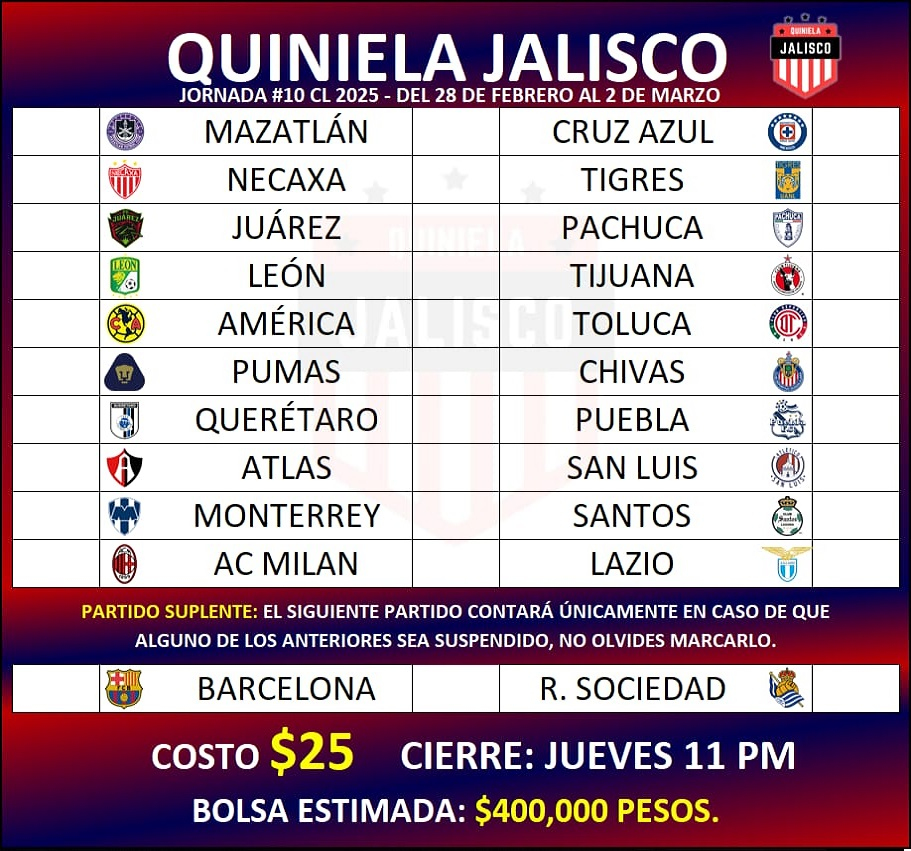
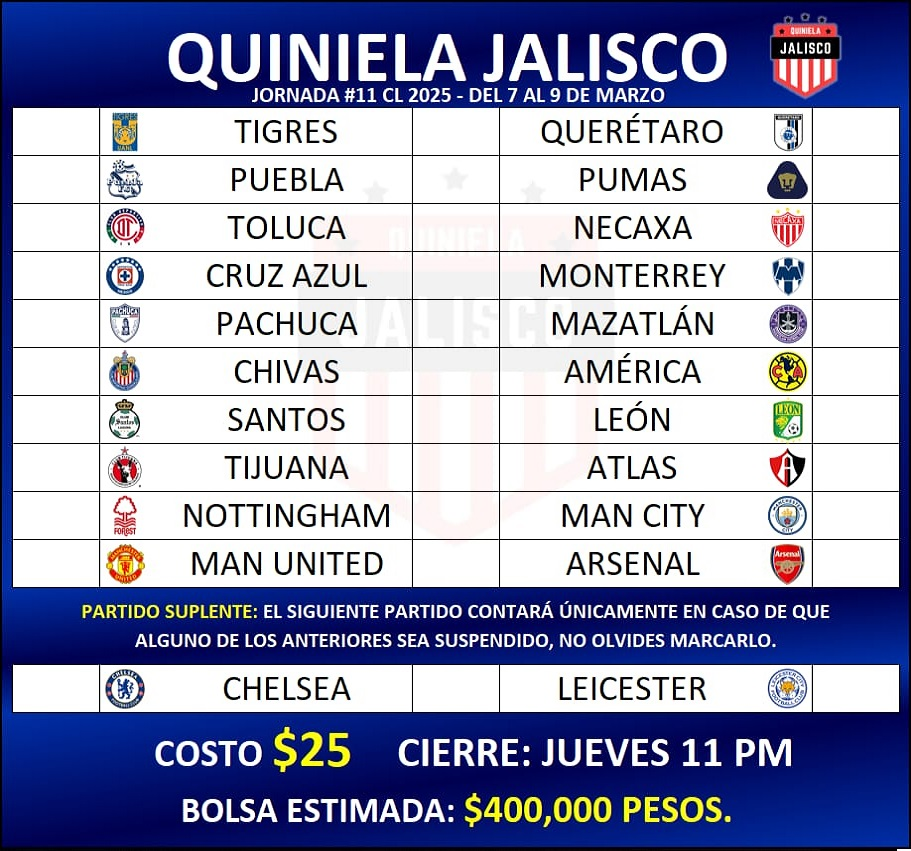
Jornada 11 C25

diff --git a/11/styles11.css b/11/styles11.css
@@ -95,8 +95,8 @@ body{
     margin-top: 8.5%;
     border-top: solid 1px black;
     border-radius: 0 0 14px 14px;
-    background: -webkit-linear-gradient(0.49turn, rgb(132 1 25) -7%, rgb(0 4 86) 80%);
-    background: linear-gradient(0.49turn, rgb(132 1 25) -7%, rgb(0 4 86) 80%);
+    background: -webkit-linear-gradient(0.49turn, rgb(1 21 118) -7%, rgb(0 4 86) 80%);
+    background: linear-gradient(0.49turn, rgb(1 21 118) -7%, rgb(0 4 86) 80%);
 }
 
 .text-lg{
@@ -293,7 +293,7 @@ h6{
 }
 
 #cantidad:before{
-    content:'+$500,000 pesos';
+    content:'$400,000 pesos';
     color: yellow;
     white-space:pre;
 }
